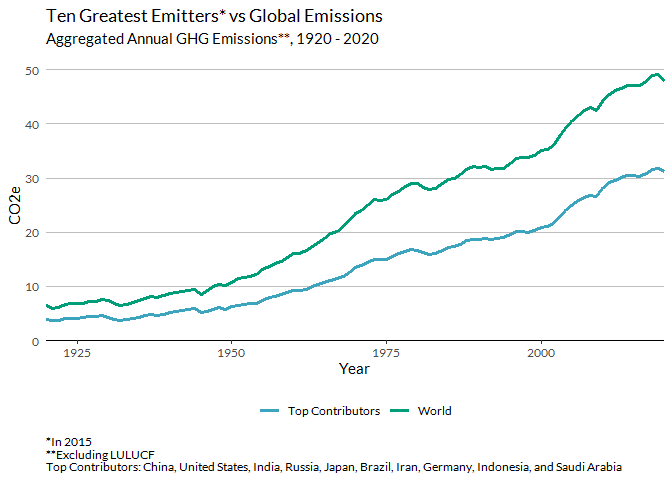
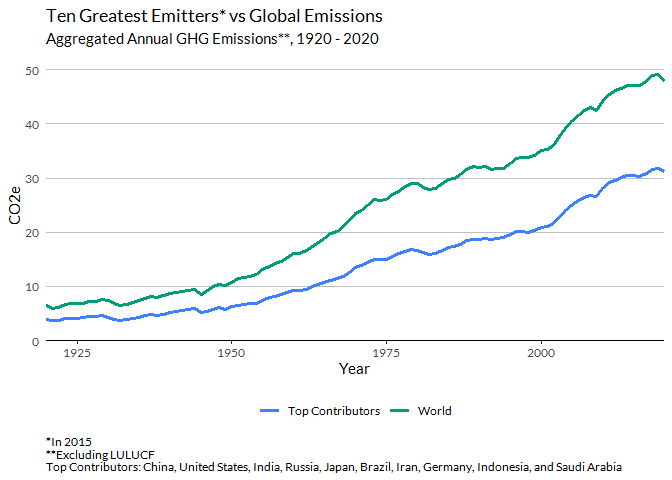
...

diff --git a/Missed-Benchmarks.md b/Missed-Benchmarks.md
@@ -69,8 +69,8 @@ global_totals_vs_lulucf <- world %>%
 # graphing the global observations of total_incl_LULUCF, total_excl_LULUCF, and LULUCF over time
 
 global_totals_vs_lulucf <- global_totals_vs_lulucf %>%
-  ggplot(aes(year, GtCO2e, color = category), linewidth = 1.2) +
-  geom_line(aes(year, GtCO2e), linewidth = .9) + #aes(year, GtCO2e), linewidth = 1.5
+  ggplot(aes(year, GtCO2e, color = category)) +
+  geom_line(aes(year, GtCO2e), linewidth = 1.2) + 
   geom_hline(yintercept = 0, linewidth = .5) +
   coord_cartesian(xlim = c(1970, 2020.5), expand = FALSE) +
   scale_y_continuous(limits = c(-3, 50)) +
@@ -268,7 +268,7 @@ df_agg_top_10_n_world_2015 <- union(df_agg_top_10, world)
 # plot before aggregating
 plot_world_over_time <- world %>%
   ggplot(aes(year, total_excl_LULUCF)) +
-  geom_line(color = "#3F80FF", linewidth = 1.2) +
+  geom_line(color = "#3CA4BD", linewidth = 1.2) +
   theme_classic() +
   coord_cartesian(xlim = c(1850, 2021), ylim = c(0,50), expand = FALSE) +
   theme(text = element_text(family = "Lato"),
@@ -654,7 +654,7 @@ plot_agg10_nworld_over_time <- df_agg_top_10_n_world_2015 %>%
   geom_line(linewidth = 1.2) +
   coord_cartesian(xlim = c(1920, 2020), ylim = c(0, 50), expand = FALSE) +
   theme_classic() +
-  scale_color_manual(values = c("#3CA4BD","#009E78")) +
+  scale_color_manual(values = c("#3F80FF","#009E78")) +
   #scale_color_paletteer_d("palettetown::celebi") +
   theme(axis.line.y = element_blank(),
         axis.ticks.y.left = element_blank(),
